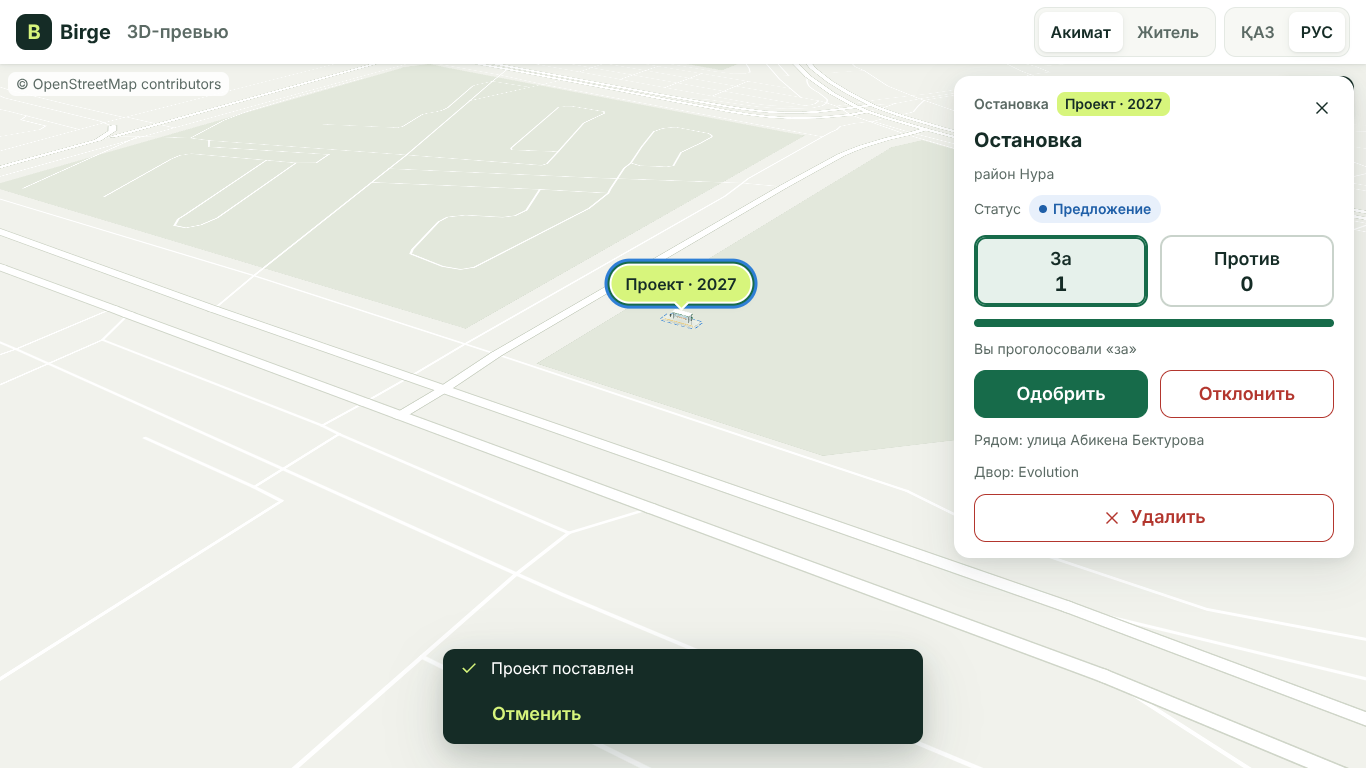
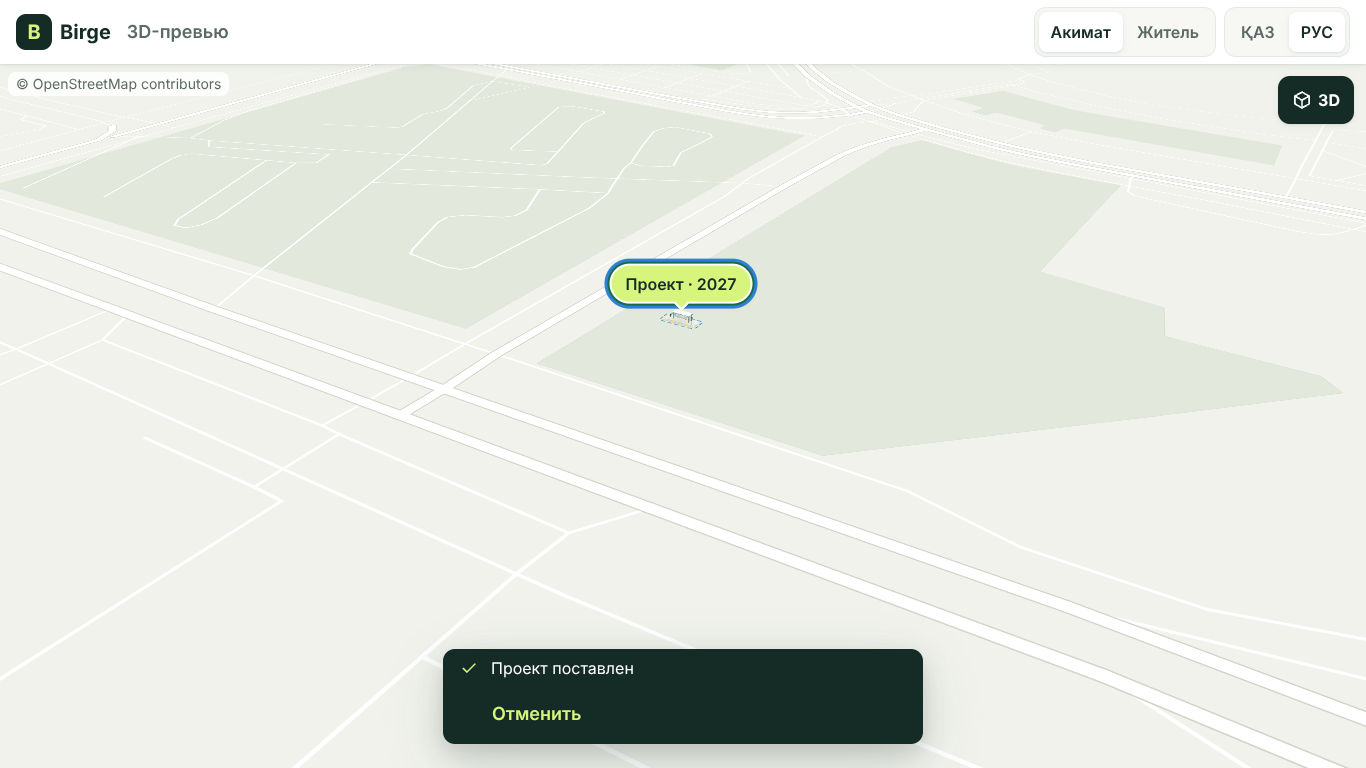
R05 r14 checkpoint 11: API client sends 3D context (near_street, target) and restore id to R06 delivery 2 (b42e790), one retry with basic fields for R06 delivery 1; undo keeps the same proposal and votes; Kazakh strings as corrected by R11; stand checks R06 3d10f7d 16/16 and b42e790 18/18, R06's own
Claude-Session: https://claude.ai/code/session_01Nh9QuZ67ErrvecVMTQd2Qd

Changed region(s): [[0.6764, 0.0938, 1.0, 0.625], [0.7379, 0.7188, 0.9531, 0.75], [0.8302, 0.6562, 0.8917, 0.6875]]

diff --git a/web/civic/build3d/build3d-core.js b/web/civic/build3d/build3d-core.js
@@ -776,16 +776,18 @@
     return e;
   }
 
-  // Клиент API R06 — по НАСТОЯЩЕМУ контракту поставки R06 (claude/round-14-r06 @ 3d10f7d, ui/civic_store/v2.py,
-  // proposals.py) и шлюза R01 (claude/sharp-dijkstra-0t87gl, ui/web_server.py V2_ROUTES):
+  // Клиент API R06 — по НАСТОЯЩЕМУ контракту R06 (claude/round-14-r06: поставка 1 @ 3d10f7d, поставка 2 @ b42e790,
+  // ui/civic_store/v2.py, proposals.py) и шлюза R01 (claude/sharp-dijkstra-0t87gl, ui/web_server.py V2_ROUTES):
   //   GET  /proposals?bbox&device_id            → {items:[…]}           (сервис R06 напрямую: {ok:true, data:{items}})
-  //   POST /proposals  [сотрудник, X-CSRF-Token] тело ТОЛЬКО {kind, geometry, rotation_deg, planned_year, demo}
-  //        (лишние поля R06 отклоняет: 422 «Неизвестное поле») → 201 {item}
+  //   POST /proposals  [сотрудник, X-CSRF-Token] {kind, geometry, rotation_deg, planned_year, demo, title_*}
+  //        + с R06 ≥ d043e7b контекст 3D: near_street, target {kind: segment|area|object, id, ids?, label_*}
+  //        и id снятого предложения в restore (возвращается то же, с голосами) → 201 {item, proposal, restored}.
+  //        R06 поставки 1 отвечает на эти поля 422 «Неизвестное поле» — тогда клиент один раз повторяет базовым
+  //        телом и дальше шлёт только его (контекст модуль всё равно вычисляет по геометрии при показе).
   //   POST /proposals/{id}/vote {value, device_id}                    → {item, changed, previous}
   //   POST /proposals/{id}/withdraw {} [сотрудник] — «Удалить» (строка остаётся в базе, в списках не видна);
   //        если маршрута нет (404/405) — запасной DELETE /proposals/{id}.
   // Ошибки: шлюз R01 {error:"код", message, field}; сервис R06 {ok:false, error:{code, message, fields}}.
-  // Контекст 3D (улица рядом, двор, участок) R06 не хранит — модуль вычисляет его по геометрии при показе.
   // opts.v2 — клиент оболочки R01 (BirgeShell.api.v2(method, path, body)): сам ставит CSRF и куки.
   var DEVICE_RE = /^[A-Za-z0-9_-]{16,128}$/;
 
@@ -799,13 +801,43 @@
   function unwrap(data) {
     return data && data.ok === true && Object.prototype.hasOwnProperty.call(data, "data") ? data.data : data;
   }
-  // Тело POST /proposals: только поля, которые принимает R06.
-  function toServerProposal(p) {
+  var TARGET_KINDS = { object: true, segment: true, area: true };
+  var TARGET_ID_RE = /^[A-Za-z0-9][A-Za-z0-9._:-]{0,95}$/; // как у R06 (proposals.py TARGET_ID_RE)
+  function shortText(v) {
+    return typeof v === "string" && v.trim() ? v.trim().slice(0, 200) : null;
+  }
+  // Цель 3D для R06: двор (area, yard-<osm id>), участок улицы (segment, рёбра OSM) или объект. Иначе null.
+  function toServerTarget(t) {
+    if (!t || typeof t !== "object" || !TARGET_KINDS[t.kind] || typeof t.id !== "string" || !TARGET_ID_RE.test(t.id)) return null;
+    var out = { kind: t.kind, id: t.id };
+    if (Array.isArray(t.ids)) {
+      var ids = t.ids
+        .filter(function (i) {
+          return typeof i === "string" && TARGET_ID_RE.test(i);
+        })
+        .slice(0, 200);
+      if (ids.length) out.ids = ids;
+    }
+    var ru = shortText(t.label_ru);
+    var kk = shortText(t.label_kk);
+    if (ru) out.label_ru = ru;
+    if (kk) out.label_kk = kk;
+    return out;
+  }
+  // Тело POST /proposals. Без rich — только поля R06 поставки 1 (3d10f7d/7031afa);
+  // rich — плюс near_street и target (R06 ≥ d043e7b хранит их и отдаёт обратно).
+  function toServerProposal(p, rich) {
     var body = { kind: p.kind, geometry: p.geometry, rotation_deg: Math.round(p.rotation_deg || 0), demo: p.demo === true };
     var year = p.year != null ? p.year : p.planned_year;
     if (year != null && isFinite(year)) body.planned_year = Math.round(year);
     if (typeof p.title_ru === "string" && p.title_ru) body.title_ru = p.title_ru;
     if (typeof p.title_kk === "string" && p.title_kk) body.title_kk = p.title_kk;
+    if (rich) {
+      var street = shortText(p.near_street);
+      var target = toServerTarget(p.target);
+      if (street) body.near_street = street;
+      if (target) body.target = target;
+    }
     return body;
   }
 
@@ -910,6 +942,21 @@
       if (!p) throw storeError("bad_response");
       return p;
     }
+    // Старый R06 (поставка 1) не знает near_street/target/id: после первого 422 шлём только базовое тело.
+    var basicOnly = opts.basicFields === true;
+    function post(p, withId) {
+      if (basicOnly) return call("POST", "/proposals", toServerProposal(p), true).then(one);
+      var body = toServerProposal(p, true);
+      if (withId && typeof p.id === "string" && TARGET_ID_RE.test(p.id)) body.id = p.id;
+      var extra = body.near_street || body.target || body.id;
+      return call("POST", "/proposals", body, true).then(one, function (err) {
+        if (!extra || (err.status !== 422 && err.status !== 400)) throw err;
+        return call("POST", "/proposals", toServerProposal(p), true).then(function (data) {
+          basicOnly = true;
+          return one(data);
+        });
+      });
+    }
     var deviceId = opts.deviceId || null;
     return {
       mode: "api",
@@ -932,11 +979,12 @@
         });
       },
       create: function (draft) {
-        return call("POST", "/proposals", toServerProposal(draft), true).then(one);
+        return post(draft, false);
       },
       restore: function (p) {
-        // Возврат удалённого: создаём заново (id выдаёт сервер; голоса R06 к новому id не переносятся).
-        return call("POST", "/proposals", toServerProposal(p), true).then(one);
+        // «Отменить» после «Удалить»: R06 ≥ d043e7b по id снятого предложения возвращает ТО ЖЕ (с голосами);
+        // R06 поставки 1 — создаётся новое (id выдаёт сервер, голоса к нему не переносятся).
+        return post(p, true);
       },
       remove: function (id) {
         var path = "/proposals/" + encodeURIComponent(id);
@@ -1049,6 +1097,7 @@
     createApiStore: createApiStore,
     createAutoStore: createAutoStore,
     toServerProposal: toServerProposal,
+    toServerTarget: toServerTarget,
     isMissingApi: isMissingApi,
     LOCAL_KEY: LOCAL_KEY,
   };

diff --git a/web/civic/build3d/build3d.js b/web/civic/build3d/build3d.js
@@ -94,8 +94,8 @@
     kk: {
       "build3d.loading": "3D жүктеліп жатыр…",
       "build3d.unsupported_title": "Көлемді көрініс қолжетімсіз",
-      "build3d.unsupported_text": "Браузер 3D-ді қолдамайды. Картаны Chrome, Edge немесе Firefox-та ашыңыз.",
-      "build3d.load_failed": "3D жүктелмеді. Байланысты тексеріп, қайталаңыз.",
+      "build3d.unsupported_text": "Браузер көлемді көріністі қолдамайды. Картаны Chrome, Edge немесе Firefox-та ашыңыз.",
+      "build3d.load_failed": "3D көрініс жүктелмеді. Байланысты тексеріп, қайталаңыз.",
       "build3d.hint.rotate": "Бұрып, «Орнату» түймесін басыңыз",
       "build3d.hint.touch": "Картаны жылжытыңыз немесе орынды түртіңіз. Содан кейін «Орнату» түймесін басыңыз",
       "build3d.hint.segment_start": "Көшені басыңыз — бөліктің басы",
@@ -108,7 +108,7 @@
       "build3d.err.too_long": "Бөлік 900 м-ден ұзын. Нүктелерді жақынырақ таңдаңыз",
       "build3d.err.no_path": "Осы көше бойымен жол табылмады. Басқа нүктелерді таңдаңыз",
       "build3d.err.no_streets": "Жарықтандыруды әзірге тек Нұра ауданында ұсынуға болады",
-      "build3d.err.outside_city": "Бұл жер Астанаға кірмейді. Қаладан орын таңдаңыз",
+      "build3d.err.outside_city": "Бұл жер Астанаға кірмейді. Қала ішінен орын таңдаңыз",
       "build3d.err.overlap": "Бұл жерде басқа жоба тұр. Нысанды жылжытыңыз",
       "build3d.placed": "Жоба орнатылды",
       "build3d.placed_local": "Жоба орнатылып, осы құрылғыда сақталды",
@@ -128,8 +128,8 @@
       "build3d.near.sports": "Жанында спорт алаңы бар, {m} м",
       "build3d.near.square": "Жанында саябақ немесе гүлзар бар, {m} м",
       "build3d.near.square_named": "Жанында саябақ немесе гүлзар бар: «{name}», {m} м",
-      "build3d.near.square_inside": "Бұл орын бұрыннан бар саябақ немесе гүлзардың ішінде",
-      "build3d.near.lamps": "Бөлікте шамдар белгіленген: {n}",
+      "build3d.near.square_inside": "Бұл орын бұрыннан бар саябақтың немесе гүлзардың ішінде",
+      "build3d.near.lamps": "Бұл бөлікте шамдар бұрыннан белгіленген: {n}",
       "build3d.near.source": "OpenStreetMap деректері бойынша",
       "build3d.card.yard": "Аула: {name}",
       "build3d.resident.hint": "Дауыс беру үшін жобаны басыңыз",
@@ -1203,6 +1203,7 @@
     function addObject(p, flags) {
       flags = flags || {};
       if (!scene) return null;
+      if (S.objects[p.id]) disposeObject(p.id); // тот же id ещё исчезает после «Удалить» — убрать сразу
       var geos = buildGeos(p);
       var mats = makeMaterials(false);
       var group = makeMeshes(geos, mats);
@@ -1372,7 +1373,8 @@
             m.userData.reveal.value = (1 - easeInOutCubic(k)) * H;
           });
           if (k >= 1) {
-            disposeObject(id);
+            // «Отменить» могло уже вернуть объект с тем же id (R06 ≥ d043e7b, заглушка) — новый не трогаем.
+            if (S.objects[id] === obj) disposeObject(id);
             if (done) done();
             return false;
           }
